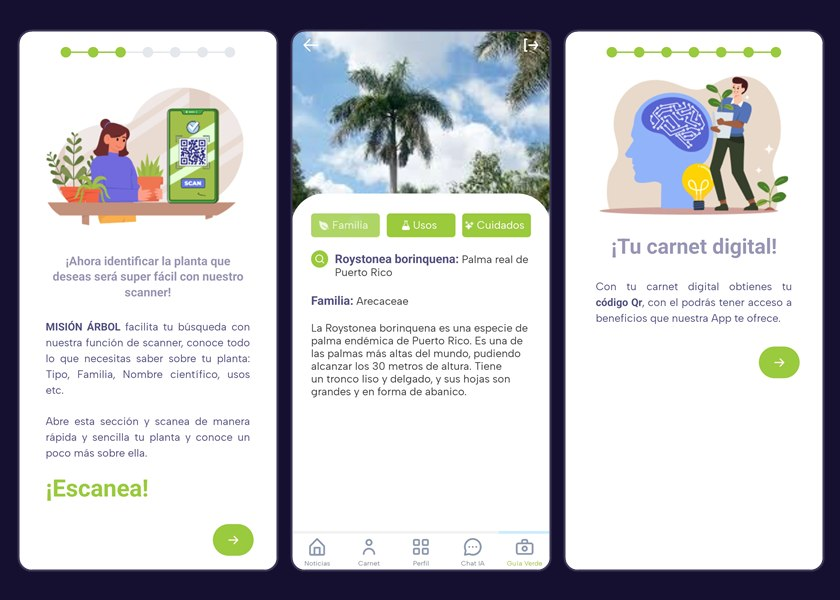
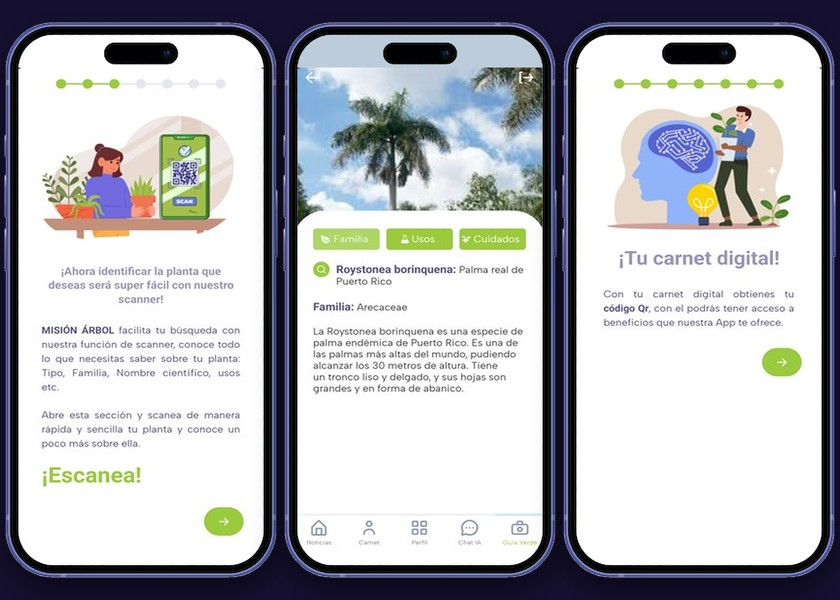
Collapsible nested categories, framed phone mockups and a softer modal blur
- Categories: AI and Automation (open) and Software Development (closed),
  which holds Mobile (open), Web and Others (closed); each header is a toggle
  with an animated panel and a project count
- Mobile project images are rebuilt with the supplied phone frame, plus a
  close-up slide per project for the carousel
- Modal backdrop blur reduced

diff --git a/src/components/Works.jsx b/src/components/Works.jsx
@@ -1,7 +1,7 @@
 
 import React, { useState } from "react";
 import Tilt from "react-parallax-tilt";
-import { motion } from 'motion/react';
+import { AnimatePresence, motion } from 'motion/react';
 
 import ImageViewer from "./ImageCarousel";
 import { styles } from "../styles";
@@ -125,7 +125,115 @@ const ProjectCard = ({
   );
 };
 
+const countProjects = (category) =>
+  category.projects
+    ? category.projects.length
+    : category.children.reduce((sum, child) => sum + countProjects(child), 0);
+
+const collectDefaults = (categories, acc = {}) => {
+  categories.forEach((category) => {
+    acc[category.title] = Boolean(category.defaultOpen);
+    if (category.children) collectDefaults(category.children, acc);
+  });
+  return acc;
+};
+
+const Chevron = ({ open }) => (
+  <svg
+    width='18'
+    height='18'
+    viewBox='0 0 24 24'
+    fill='none'
+    stroke='currentColor'
+    strokeWidth='2.5'
+    strokeLinecap='round'
+    strokeLinejoin='round'
+    className={`transition-transform duration-300 ${open ? "rotate-180" : ""}`}
+  >
+    <path d='M6 9l6 6 6-6' />
+  </svg>
+);
+
+// A collapsible category: cards when it has projects, nested categories when it has children.
+const CategoryBlock = ({ category, level, openState, onToggle }) => {
+  const open = openState[category.title];
+  const [clip, setClip] = useState(false);
+  const total = countProjects(category);
+  if (total === 0) return null;
+
+  return (
+    <div className={level === 1 ? "mt-14" : "mt-10"}>
+      <h3 className='m-0'>
+        <button
+          type='button'
+          aria-expanded={open}
+          onClick={() => onToggle(category.title)}
+          className={`group flex w-full items-center gap-3 text-left cursor-pointer border-b pb-3 transition-colors ${
+            level === 1 ? "border-white/10 hover:border-[#915eff]/50" : "border-white/5 hover:border-[#915eff]/40"
+          }`}
+        >
+          <span
+            className={`text-white font-bold ${
+              level === 1 ? "sm:text-[32px] text-[26px]" : "sm:text-[26px] text-[22px]"
+            }`}
+          >
+            {category.title}
+          </span>
+          <span className='px-2.5 py-0.5 rounded-full border border-[#915eff]/40 bg-black-200 text-secondary text-[12px] font-medium tracking-wider'>
+            {total}
+          </span>
+          <span className='ml-auto text-secondary group-hover:text-white transition-colors'>
+            <Chevron open={open} />
+          </span>
+        </button>
+      </h3>
+
+      <AnimatePresence initial={false}>
+        {open && (
+          <motion.div
+            key='panel'
+            initial={{ height: 0, opacity: 0 }}
+            animate={{ height: "auto", opacity: 1 }}
+            exit={{ height: 0, opacity: 0 }}
+            transition={{ duration: 0.35, ease: "easeInOut" }}
+            onAnimationStart={() => setClip(true)}
+            onAnimationComplete={() => setClip(false)}
+            className={clip ? "overflow-hidden" : ""}
+          >
+            {category.projects ? (
+              <div className='mt-8 flex flex-wrap gap-7'>
+                {category.projects.map((project, index) => (
+                  <ProjectCard
+                    key={`${category.title}-${project.name}`}
+                    index={index}
+                    {...project}
+                  />
+                ))}
+              </div>
+            ) : (
+              <div className={level === 1 ? "pl-0 sm:pl-6" : ""}>
+                {category.children.map((child) => (
+                  <CategoryBlock
+                    key={child.title}
+                    category={child}
+                    level={level + 1}
+                    openState={openState}
+                    onToggle={onToggle}
+                  />
+                ))}
+              </div>
+            )}
+          </motion.div>
+        )}
+      </AnimatePresence>
+    </div>
+  );
+};
+
 const Works = () => {
+  const [openState, setOpenState] = useState(() => collectDefaults(projectCategories));
+  const toggle = (title) => setOpenState((state) => ({ ...state, [title]: !state[title] }));
+
   return (
     <>
       <motion.div variants={textVariant()}>
@@ -146,21 +254,14 @@ const Works = () => {
         </motion.p>
       </div>
 
-      {projectCategories.filter((category) => category.projects.length > 0).map((category) => (
-        <div key={category.title} className='mt-20'>
-          <h3 className='text-white font-bold sm:text-[32px] text-[26px]'>
-            {category.title}
-          </h3>
-          <div className='mt-8 flex flex-wrap gap-7'>
-            {category.projects.map((project, index) => (
-              <ProjectCard
-                key={`${category.title}-${project.name}`}
-                index={index}
-                {...project}
-              />
-            ))}
-          </div>
-        </div>
+      {projectCategories.map((category) => (
+        <CategoryBlock
+          key={category.title}
+          category={category}
+          level={1}
+          openState={openState}
+          onToggle={toggle}
+        />
       ))}
     </>
   );

diff --git a/src/constants/constants.js b/src/constants/constants.js
@@ -54,6 +54,11 @@ import {
   zerux,
   pegasus,
   tpf,
+  zeruxdetail,
+  vitaldetail,
+  misionarboldetail,
+  pegasusdetail,
+  cryptotrackerdetail,
   offboarding,
   newuser,
   magicdash,
@@ -558,6 +563,7 @@ const mobileProjects = [
       },
     ],
     image: zerux,
+    images: [zerux, zeruxdetail],
     live_url: "https://play.google.com/store/apps/details?id=com.dtowerssj.nevula_mobile",
     live_icon: googleplay,
   },
@@ -588,6 +594,7 @@ const mobileProjects = [
       },
     ],
     image: misionarbol,
+    images: [misionarbol, misionarboldetail],
   },
   {
     name: "Vital",
@@ -611,6 +618,7 @@ const mobileProjects = [
       },
     ],
     image: vital,
+    images: [vital, vitaldetail],
   },
   {
     name: "Pegasus",
@@ -642,6 +650,7 @@ const mobileProjects = [
       },
     ],
     image: pegasus,
+    images: [pegasus, pegasusdetail],
     source_code_link: "https://github.com/Dtowerssj/pegasus-app",
   },
   {
@@ -662,6 +671,7 @@ const mobileProjects = [
       },
     ],
     image: cryptotracker,
+    images: [cryptotracker, cryptotrackerdetail],
     source_code_link: "https://github.com/Dtowerssj/crypto-tracker-app",
   },
   // RESERVED SLOT (hidden): standalone Waku thermal printer module (its app is Zerux, shown above). Activate it once we know where the
@@ -846,11 +856,19 @@ const aiProjects = [
   },
 ];
 
+// Nested, collapsible categories. A category with `projects` shows cards; one with `children` holds other
+// categories. `defaultOpen` is only the initial state.
 const projectCategories = [
-  { title: "AI and Automation", projects: aiProjects },
-  { title: "Mobile", projects: mobileProjects },
-  { title: "Web", projects: webProjects },
-  { title: "Others", projects: otherProjects },
+  { title: "AI and Automation", defaultOpen: true, projects: aiProjects },
+  {
+    title: "Software Development",
+    defaultOpen: false,
+    children: [
+      { title: "Mobile", defaultOpen: true, projects: mobileProjects },
+      { title: "Web", defaultOpen: false, projects: webProjects },
+      { title: "Others", defaultOpen: false, projects: otherProjects },
+    ],
+  },
 ];
 
 export { services, technologies, experiences, testimonials, projectCategories };

diff --git a/src/assets/index.js b/src/assets/index.js
@@ -64,6 +64,11 @@ import misionarbol from "./misionarbol.jpg";
 import zerux from "./zerux.jpg";
 import pegasus from "./pegasus.jpg";
 import tpf from "./tpf.jpg";
+import zeruxdetail from "./zeruxdetail.jpg";
+import vitaldetail from "./vitaldetail.jpg";
+import misionarboldetail from "./misionarboldetail.jpg";
+import pegasusdetail from "./pegasusdetail.jpg";
+import cryptotrackerdetail from "./cryptotrackerdetail.jpg";
 import offboarding from "./offboarding.png";
 import newuser from "./newuser.png";
 import magicdash from "./magicdash.png";
@@ -125,6 +130,11 @@ export {
   zerux,
   pegasus,
   tpf,
+  zeruxdetail,
+  vitaldetail,
+  misionarboldetail,
+  pegasusdetail,
+  cryptotrackerdetail,
   offboarding,
   newuser,
   magicdash,

diff --git a/src/components/ImageCarousel.jsx b/src/components/ImageCarousel.jsx
@@ -43,7 +43,7 @@ const ImageCarousel = ({ images, title, startIndex = 0, onClose }) => {
 
   return createPortal(
     <motion.div
-      className='fixed inset-0 z-[100] flex items-center justify-center p-4 sm:p-8 bg-black/80 backdrop-blur-sm'
+      className='fixed inset-0 z-[100] flex items-center justify-center p-4 sm:p-8 bg-black/75 backdrop-blur-[2px]'
       role='dialog'
       aria-modal='true'
       aria-label={`${title} images`}
